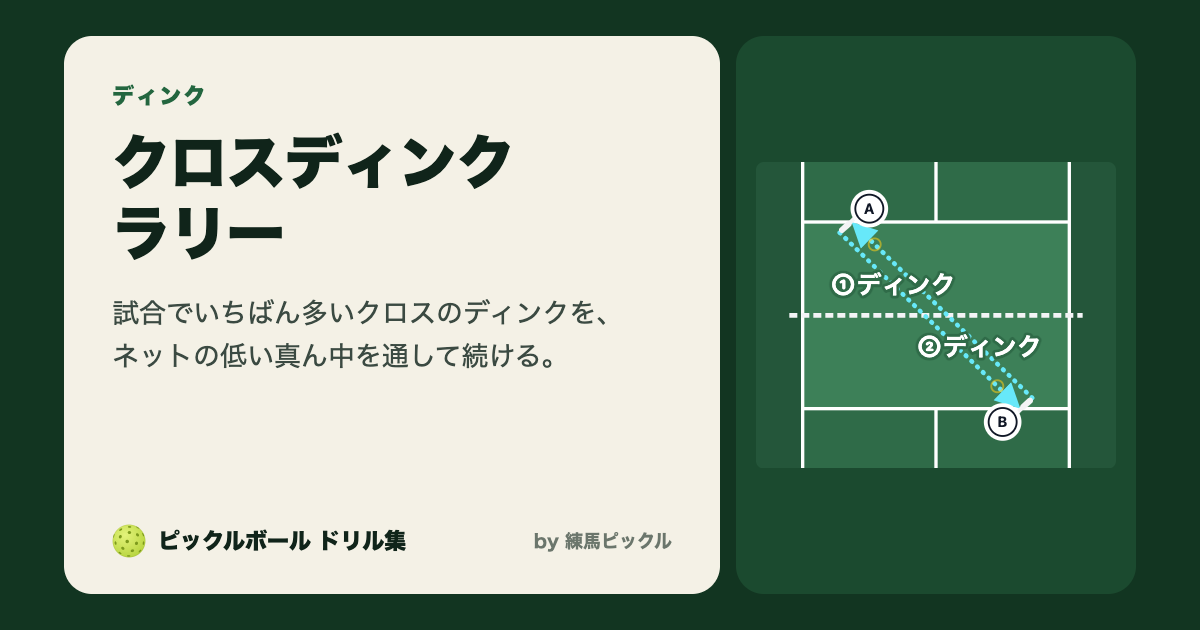
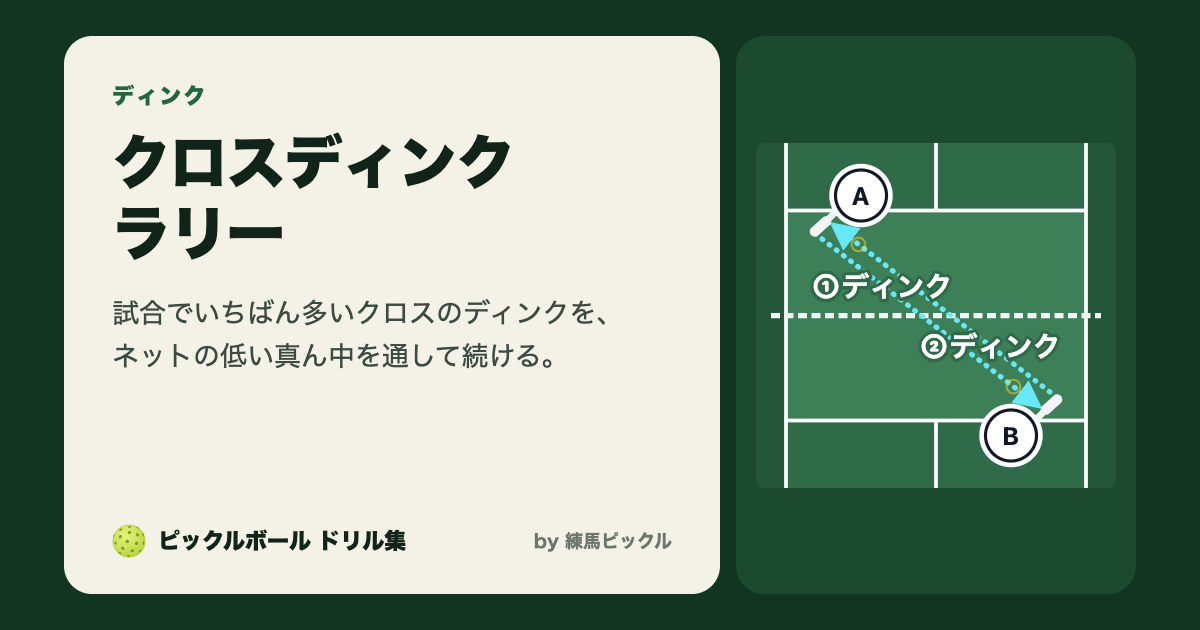
Drill share previews: draw players 1.5x and trim side padding so A/B read in LINE cards
Claude-Session: https://claude.ai/code/session_013HpVCq95JLREtWQF64J4S6

Changed region(s): [[0.6475, 0.2111, 0.925, 0.7841]]

diff --git a/src/styles/court.css b/src/styles/court.css
@@ -347,3 +347,20 @@
 	text-align: center;
 	margin-top: 0.25rem;
 }
+
+/* 共有のプレビュー画像（止まった1枚の図）は、人を 1.5 倍で描く（Court.astro の FIG と合わせる） */
+.court.still .player text {
+	font-size: 1.65px;
+}
+.court.still .player .body {
+	stroke-width: 0.33;
+}
+.court.still .player .inner-ring {
+	stroke-width: 0.21;
+}
+.court.still .player .arm {
+	stroke-width: 0.45;
+}
+.court.still .player .paddle {
+	stroke-width: 0.68;
+}

diff --git a/docs/decisions.md b/docs/decisions.md
@@ -95,3 +95,4 @@
 - 共有画像の URL の後ろに、画像の材料の指紋を付けた（`/og/site.png?v=xxxxxxxx`）。LINE も X も推奨の大きさを公式には出しておらず、OGP の考え方を決めた Meta の資料では、1200×630・1.91:1 が推奨で、画像は URL ごとに覚え、差し替えたら新しい URL にしないと更新されない、とあるため。大きさは 1200×630 のままにする（X に合わせて 2:1 にすると LINE で左右が多く切れる）。
 - 共通の共有画像の右上のタイルを、ボールの絵から、ドリルがあるカテゴリの名前の一覧に替えた（書き手が4案から選んだ）。全部ではないと分かるように、最後に etc. を付ける。名前はデータから並べ、5つまで出す。ボールは題名とコートの図で伝わり、飾りの役しかしていなかったため。
 - ドリルの共有画像を2つ直した。(1) 止まった1枚の図で、線の名前どうしが重なるときは、あとの名前を上下に1段ずつずらす（Court.astro）。①などの番号を付けた長さで、図の左右からはみ出さないように寄せる。(2) 題名は、空白で区切った短いまとまり（9字まで、→ は前の語に付ける）を途中で折り返さず、18字を超える題名は文字を少し小さくする。「玉」や「の」だけで行が切れていたため。
+- ドリルの共有画像の図で、人（体・腕・パドル・文字）を1.5倍で描き、図の左右の余白を詰めた（Court.astro の FIG、court.css の .court.still）。LINE などのカードでは A・B が小さすぎて読めなかったため。ドリルのページの図（アニメーション）は変えない。全面を描く図（サーブやリターンから始まるもの）は、縦に長く、これ以上は大きくできない。
